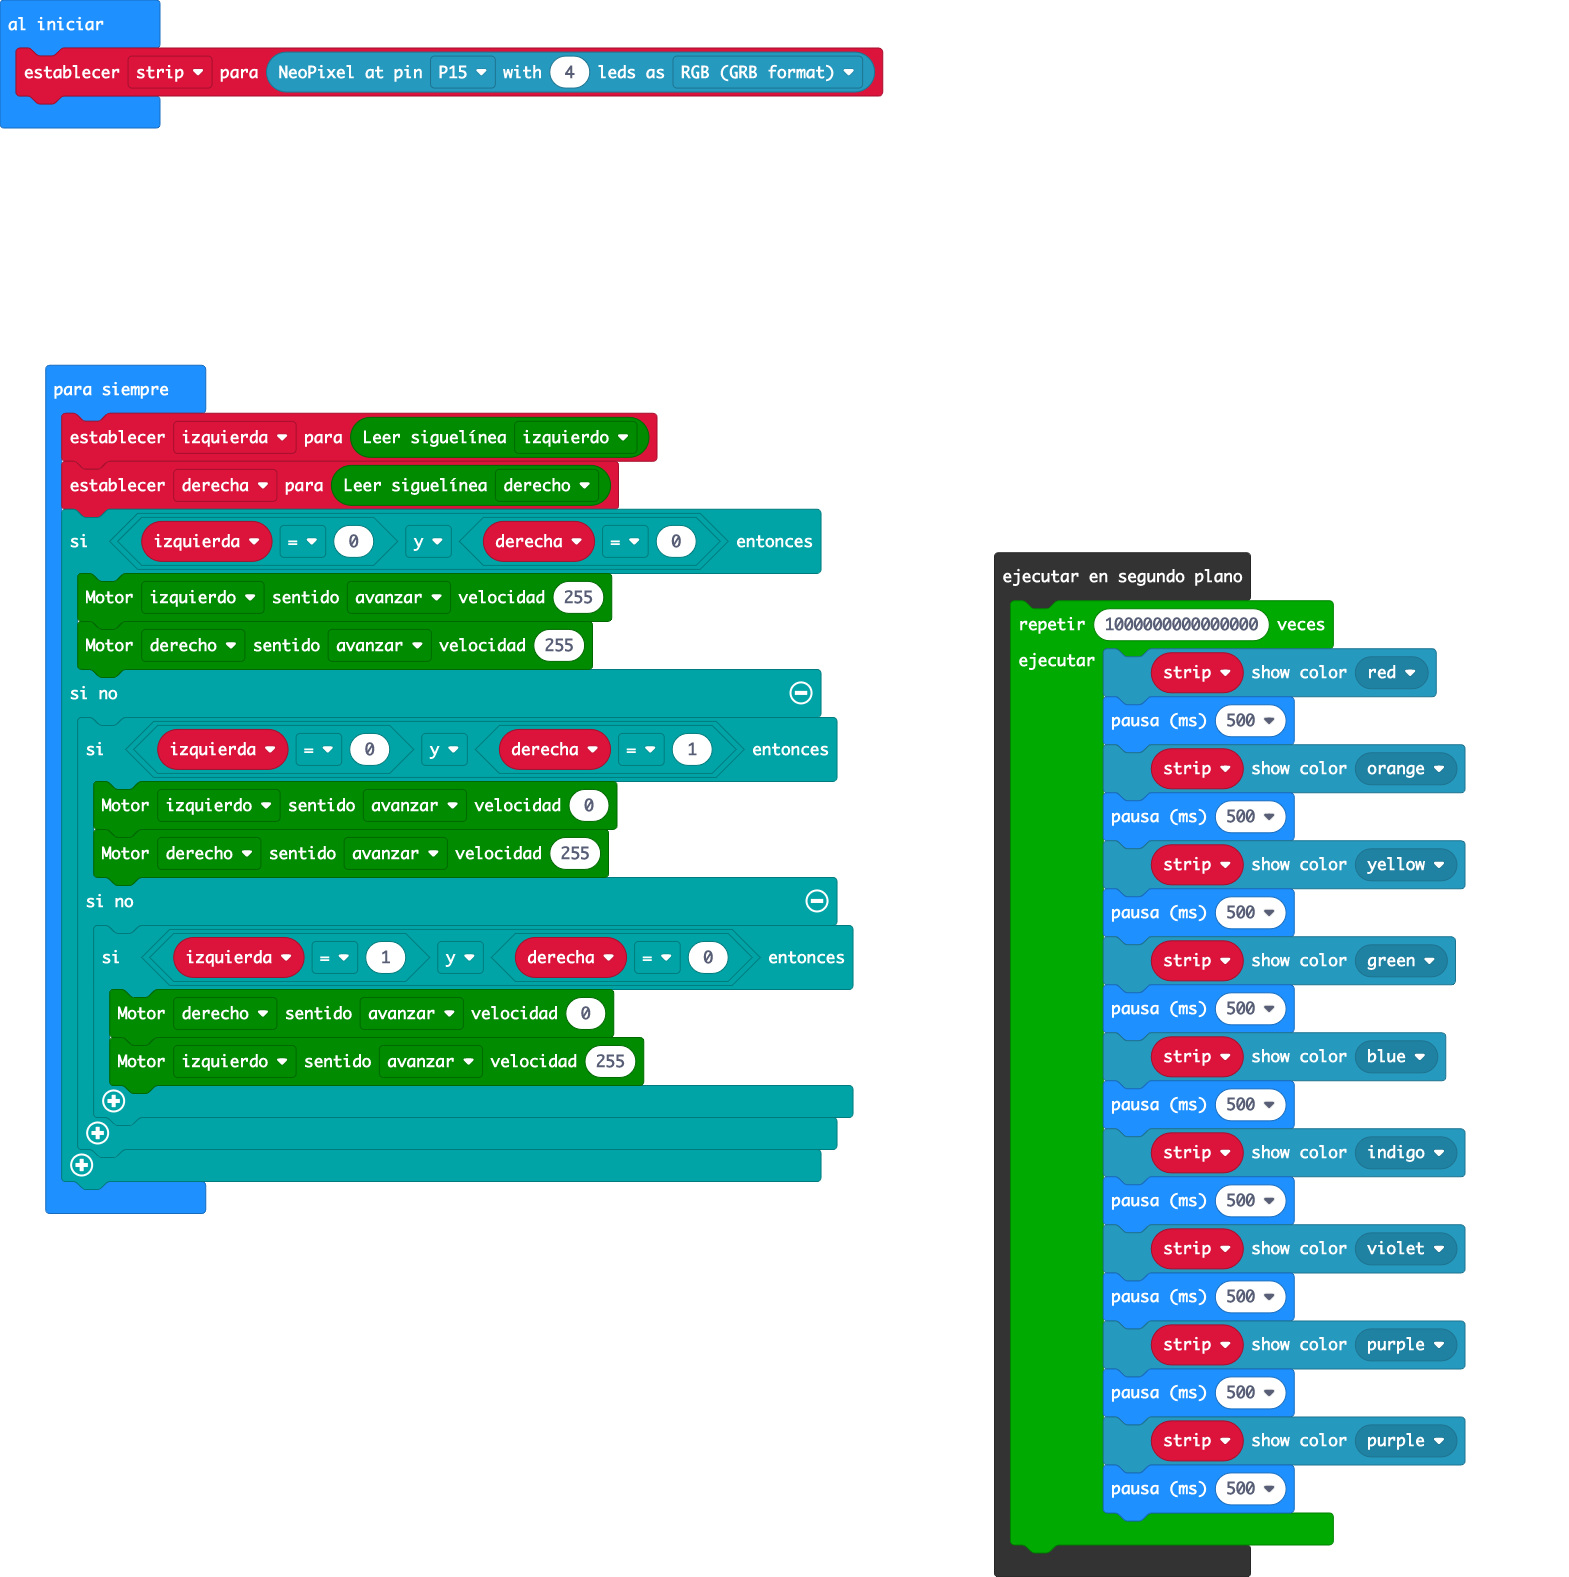
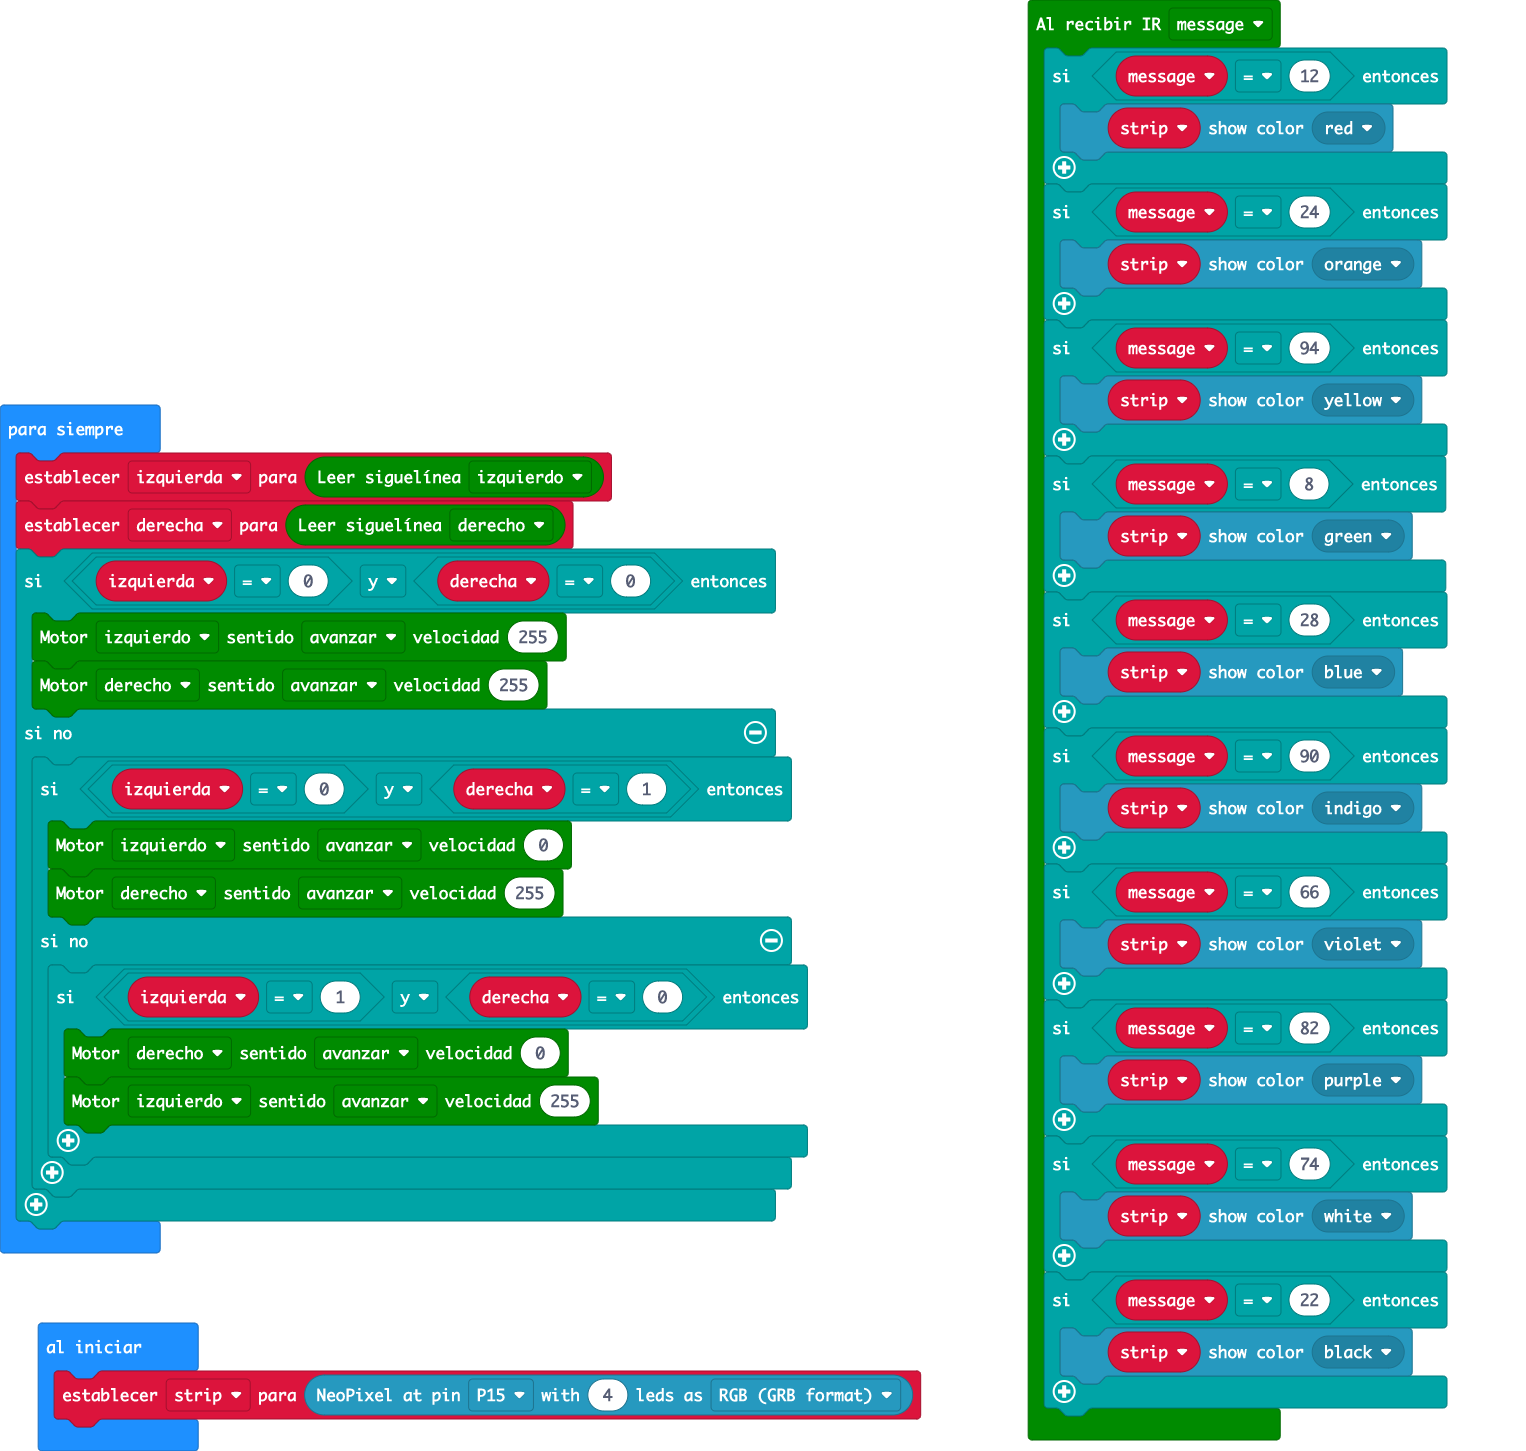
rgb

diff --git a/main.ts b/main.ts
@@ -1,6 +1,39 @@
+maqueen.IR_callbackUser(function (message) {
+    if (message == 12) {
+        strip.showColor(neopixel.colors(NeoPixelColors.Red))
+    }
+    if (message == 24) {
+        strip.showColor(neopixel.colors(NeoPixelColors.Orange))
+    }
+    if (message == 94) {
+        strip.showColor(neopixel.colors(NeoPixelColors.Yellow))
+    }
+    if (message == 8) {
+        strip.showColor(neopixel.colors(NeoPixelColors.Green))
+    }
+    if (message == 28) {
+        strip.showColor(neopixel.colors(NeoPixelColors.Blue))
+    }
+    if (message == 90) {
+        strip.showColor(neopixel.colors(NeoPixelColors.Indigo))
+    }
+    if (message == 66) {
+        strip.showColor(neopixel.colors(NeoPixelColors.Violet))
+    }
+    if (message == 82) {
+        strip.showColor(neopixel.colors(NeoPixelColors.Purple))
+    }
+    if (message == 74) {
+        strip.showColor(neopixel.colors(NeoPixelColors.White))
+    }
+    if (message == 22) {
+        strip.showColor(neopixel.colors(NeoPixelColors.Black))
+    }
+})
 let derecha = 0
 let izquierda = 0
-let strip = neopixel.create(DigitalPin.P15, 4, NeoPixelMode.RGB)
+let strip: neopixel.Strip = null
+strip = neopixel.create(DigitalPin.P15, 4, NeoPixelMode.RGB)
 basic.forever(function () {
     izquierda = maqueen.readPatrol(maqueen.Patrol.PatrolLeft)
     derecha = maqueen.readPatrol(maqueen.Patrol.PatrolRight)
@@ -17,27 +50,5 @@ basic.forever(function () {
                 maqueen.motorRun(maqueen.Motors.M1, maqueen.Dir.CW, 255)
             }
         }
-    }
-})
-control.inBackground(function () {
-    for (let index = 0; index < 1000000000000000; index++) {
-        strip.showColor(neopixel.colors(NeoPixelColors.Red))
-        basic.pause(500)
-        strip.showColor(neopixel.colors(NeoPixelColors.Orange))
-        basic.pause(500)
-        strip.showColor(neopixel.colors(NeoPixelColors.Yellow))
-        basic.pause(500)
-        strip.showColor(neopixel.colors(NeoPixelColors.Green))
-        basic.pause(500)
-        strip.showColor(neopixel.colors(NeoPixelColors.Blue))
-        basic.pause(500)
-        strip.showColor(neopixel.colors(NeoPixelColors.Indigo))
-        basic.pause(500)
-        strip.showColor(neopixel.colors(NeoPixelColors.Violet))
-        basic.pause(500)
-        strip.showColor(neopixel.colors(NeoPixelColors.Purple))
-        basic.pause(500)
-        strip.showColor(neopixel.colors(NeoPixelColors.Purple))
-        basic.pause(500)
     }
 })
